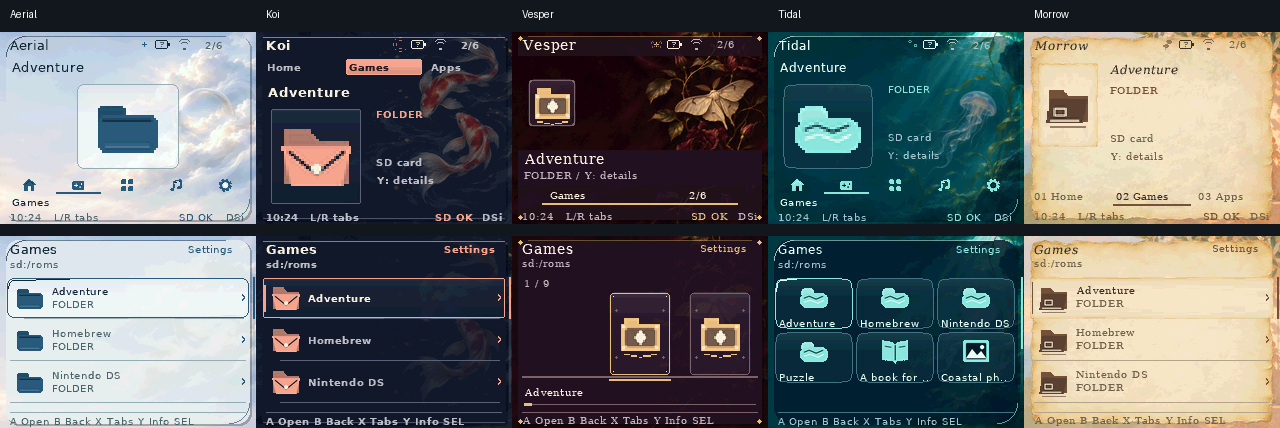
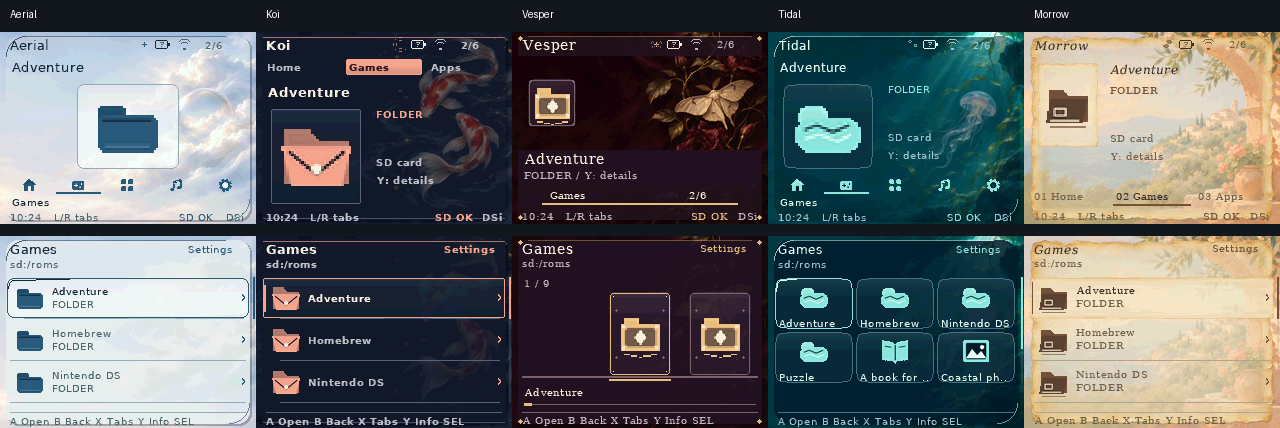
Reveal Morrow illustration through translucent parchment

Changed region(s): [[0.8125, 0.0911, 1.0, 0.5164], [0.8125, 0.7593, 1.0, 0.972], [0.9062, 0.5771, 1.0, 0.6682]]

diff --git a/tools/theme_finishing.py b/tools/theme_finishing.py
@@ -11,6 +11,21 @@ def rgba(color, alpha=255):
     return (*ImageColor.getrgb(color), alpha)
 
 
+def parchment_coverage(image, center, border, fade):
+    """Thin the paper interior while retaining the authored, worn perimeter."""
+    width, height = image.size
+    original = image.getchannel("A").tobytes()
+    coverage = bytearray(len(original))
+    for y in range(height):
+        for x in range(width):
+            distance = min(x, y, width - 1 - x, height - 1 - y)
+            rim = max(0, min(fade, border + fade - distance))
+            opacity = center + (255 - center) * rim // fade
+            index = y * width + x
+            coverage[index] = original[index] * opacity // 255
+    image.putalpha(Image.frombytes("L", image.size, bytes(coverage)))
+
+
 def control(name, colors, theme):
     image = Image.new("RGBA", (32, 32))
     d = ImageDraw.Draw(image)
@@ -61,12 +76,10 @@ def control(name, colors, theme):
 def reading_surface(theme, colors, opacity, bottom, materials):
     image = Image.new("RGBA", (256, 192))
     if theme == "morrow":
-        # Preserve the generated material's original alpha and aged perimeter.
+        # Transparency is baked once; the console still blends only on loading.
         sheet = Image.open(materials / "morrow-parchment.png").convert("RGBA")
         sheet = sheet.resize((250, 190), Image.Resampling.LANCZOS)
-        sheet.putalpha(
-            sheet.getchannel("A").point(lambda a: a * (250 if bottom else 240) // 255)
-        )
+        parchment_coverage(sheet, 158 if bottom else 107, border=7, fade=9)
         image.alpha_composite(sheet, (3, 1))
         return image
     if theme == "folio":

diff --git a/tools/build_collection.py b/tools/build_collection.py
@@ -16,7 +16,7 @@ import wave
 
 import numpy as np
 from PIL import Image, ImageColor, ImageDraw, ImageFont, ImageOps
-from theme_finishing import finish
+from theme_finishing import finish, parchment_coverage
 
 ROOT = Path(__file__).resolve().parents[1]
 SPECS = {
@@ -326,6 +326,8 @@ def paper_component(name, spec):
         return image
     paper = Image.open(ROOT / "source/materials/morrow-parchment.png").convert("RGBA")
     image = paper.resize((32, 32), Image.Resampling.LANCZOS)
+    if name in ("row-selected", "card-selected", "card"):
+        parchment_coverage(image, 170, border=3, fade=3)
     d = ImageDraw.Draw(image)
     if name in ("row-selected", "card-selected"):
         d.line((2, 5, 2, 26), fill=colors["accent"], width=1)

diff --git a/themes/morrow/README.md b/themes/morrow/README.md
@@ -11,9 +11,12 @@ quiet marimba and warm chord voicings.
 - **Extended** browser by default; other views and icon sizes remain selectable.
 - DejaVu Serif body at 10 px, with a separate DejaVu Serif-Italic heading face at 12 px.
 - Separate native-size paper assets for the two reading surfaces, with subtle
-  grain and translucent edges. PNG alpha supplies the coverage at 100% surface opacity.
+  grain and aged edges. The interior is about 42% opaque on top and 62% below,
+  revealing the coastal illustration while retaining a stronger worn perimeter.
+  PNG alpha supplies this coverage at 100% configured surface opacity.
 - Parchment-strip selection and card assets with a printed margin, aged edges
-  and soft shadow. The same selection follows into file pickers and settings.
+  and a two-thirds-opaque center. The same selection follows into file pickers
+  and settings; modal panels retain their opaque text surface.
 - Four-level component coverage for translucent cards and layered edges. Modal panels retain solid reading surfaces.
 - Native title banners retain priority over themed fallback icons.
 

diff --git a/docs/AUTHORING.md b/docs/AUTHORING.md
@@ -75,6 +75,12 @@ selections and cards, with darkened worn edges and a quiet text area. Keep detai
 inside the six-pixel slice border. Surface alpha is multiplied by screen opacity;
 these packs use 100 to preserve the authored coverage.
 
+Morrow's parchment uses a feathered alpha profile: the interior is about 42%
+opaque on top and 62% on the bottom, increasing toward its worn perimeter.
+Selections and cards retain two-thirds center coverage; modal panels stay opaque.
+`parchment_coverage()` applies this during asset generation. No extra console
+buffer, animation work or per-frame background blending is required.
+
 ## Controls, motion and prepared assets
 
 `theme_finishing.py` generates optional checkbox, toggle, arrow, scrollbar and busy
